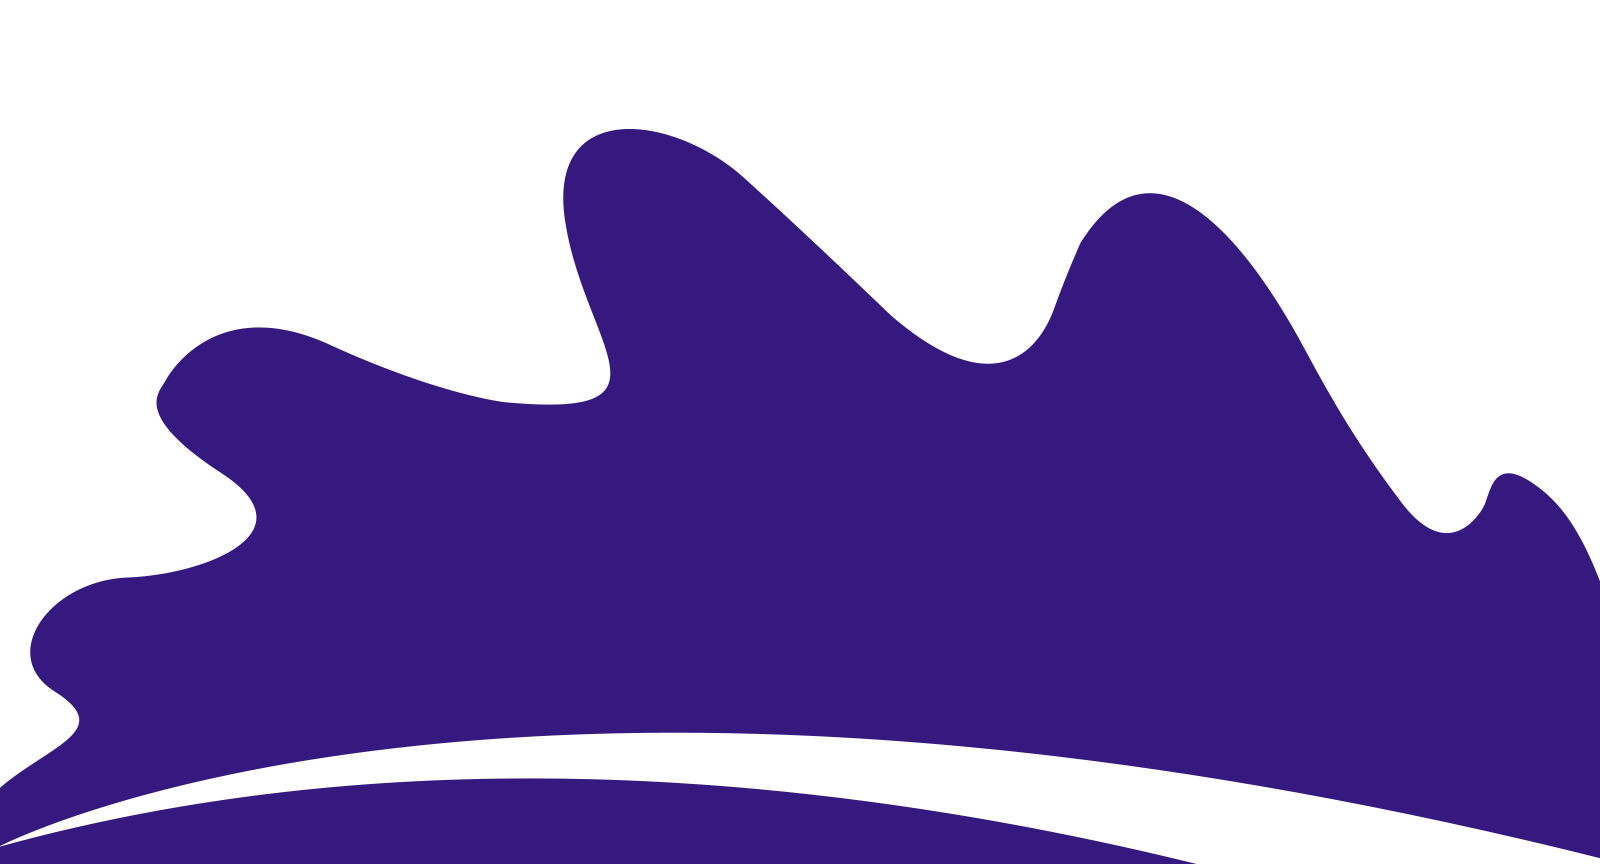
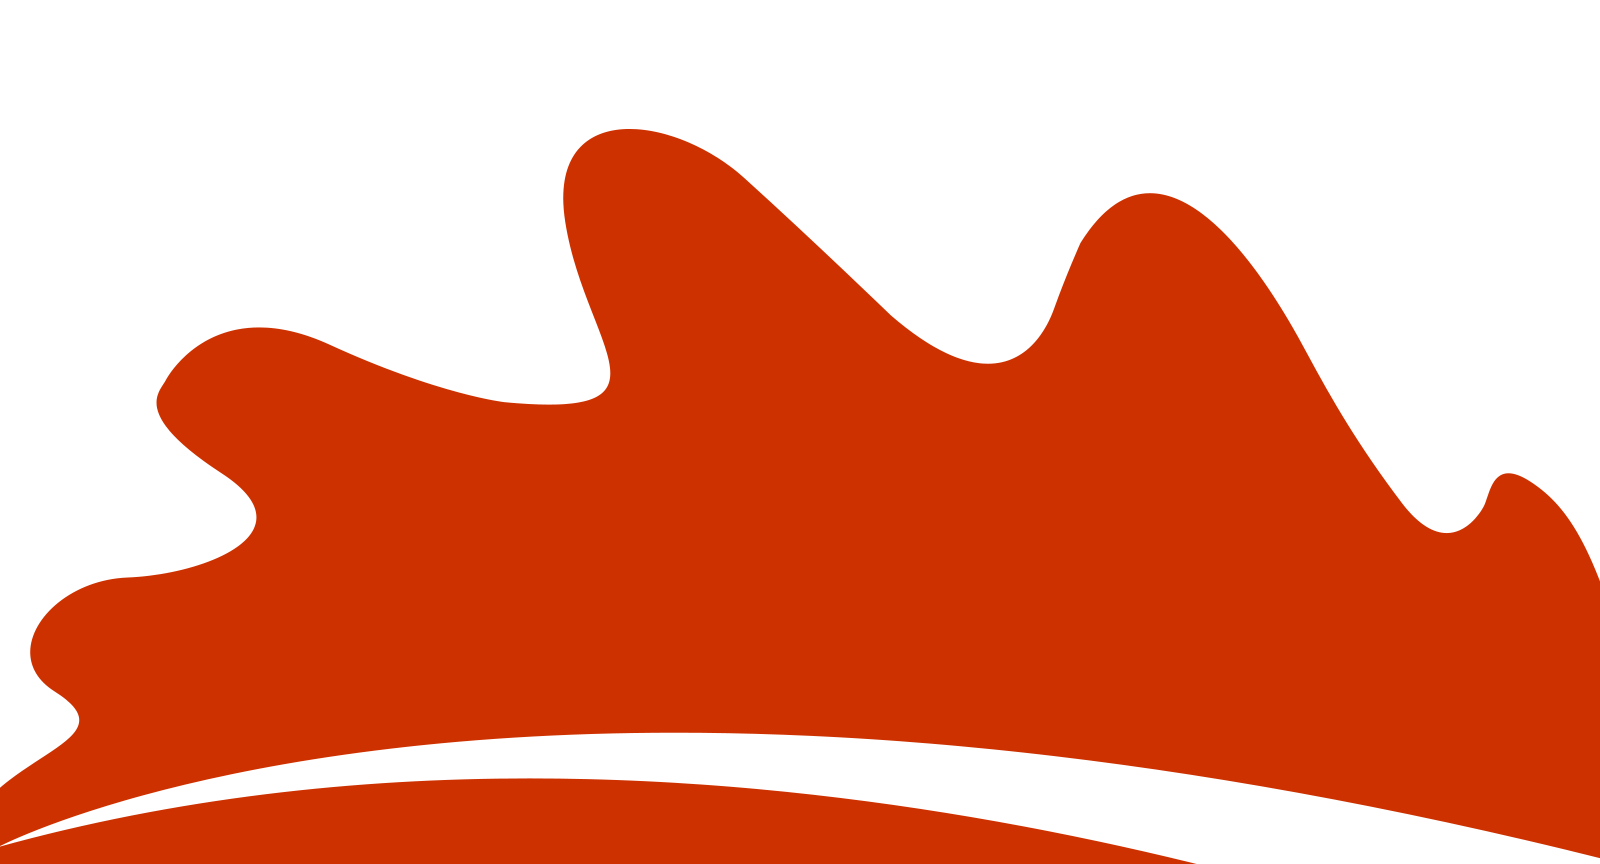
first

diff --git a/theme/index.html b/theme/index.html
@@ -79,7 +79,9 @@
   <div class="container">
     <div class="row">
       <div class="col-lg-11 mx-auto">
-        <h1 class="text-white font-tertiary">Hi! I’m <br> Christoher <br> UX designer</h1>
+        <h1 class="text-white font-tertiary">Empowering Student Organizations <br> One Connection at a Time</h1>
+
+        
       </div>
     </div>
   </div>
@@ -126,68 +128,45 @@
   <div class="container">
     <div class="row">
       <div class="col-lg-10 mx-auto text-center">
-        <p class="font-secondary paragraph-lg text-dark">Lorem ipsum dolor sit amet, consectetur adipisicing elit, sed
-          do eiusmod tempor incididunt ut labore et dolore magna aliqua. Ut enim ad minim veniam, quis nostrud
-          exercitation ullamco laboris nisi ut aliquip ex ea commodo consequat. Duis aute irure dolor in reprehenderit
-          in voluptate velit esse cillum dolore eu fugiat nulla pariatur.</p>
-        <a href="about.html" class="btn btn-transparent">know more</a>
+        <p class="font-secondary paragraph-lg text-dark">We believe in the power of youth and the impact of student organizations. Our mission is to bridge the gap between student groups and sponsors, creating opportunities for growth, innovation, and success. Whether you're a student leader or a sponsor looking to make a difference, we're here to connect you with the right partners.</p>
+        <a href="about.html" class="btn btn-transparent">Our Story</a>
       </div>
     </div>
   </div>
 </section>
 <!-- /about -->
 
-<!-- skills -->
+<!-- Our Network -->
 <section class="section">
   <div class="container">
     <div class="row">
       <div class="col-lg-12 text-center">
-        <h2 class="section-title">Skills</h2>
+        <h2 class="section-title">Our Network</h2>
       </div>
-      <div class="col-lg-3 col-sm-6 mb-4 mb-lg-0">
-        <div class="card shadow text-center">
-          <div class="position-relative rounded-top progress-wrapper" data-color="#fdb157">
-            <div class="wave" data-progress="90%"></div>
-          </div>
-          <div class="card-footer bg-white">
-            <h4 class="card-title">Web Design (90%)</h4>
+      <!-- Student Orgs -->
+      <div class="col-lg-6 col-sm-6 mb-4 mb-lg-0">
+        <div class="card shadow text-center py-5 bg-purple"> <!-- Added bg-purple class -->
+          <div class="card-body">
+            <h2 class="display-2 text-white">80+</h2> <!-- White text -->
+            <h4 class="card-title text-white">Student Organizations</h4> <!-- White text -->
+            <p class="text-white">Join our growing community of student-led groups.</p> <!-- White text -->
           </div>
         </div>
       </div>
-      <div class="col-lg-3 col-sm-6 mb-4 mb-lg-0">
-        <div class="card shadow text-center">
-          <div class="position-relative rounded-top progress-wrapper" data-color="#9473e6">
-            <div class="wave" data-progress="60%"></div>
-          </div>
-          <div class="card-footer bg-white">
-            <h4 class="card-title">Logo Design (60%)</h4>
-          </div>
-        </div>
-      </div>
-      <div class="col-lg-3 col-sm-6 mb-4 mb-lg-0">
-        <div class="card shadow text-center">
-          <div class="position-relative rounded-top progress-wrapper" data-color="#bdecf6">
-            <div class="wave" data-progress="80%"></div>
-          </div>
-          <div class="card-footer bg-white">
-            <h4 class="card-title">After Effects (80%)</h4>
-          </div>
-        </div>
-      </div>
-      <div class="col-lg-3 col-sm-6 mb-4 mb-lg-0">
-        <div class="card shadow text-center">
-          <div class="position-relative rounded-top progress-wrapper" data-color="#ffbcaa">
-            <div class="wave" data-progress="70%"></div>
-          </div>
-          <div class="card-footer bg-white">
-            <h4 class="card-title">Web App (70%)</h4>
+      <!-- Sponsors -->
+      <div class="col-lg-6 col-sm-6 mb-4 mb-lg-0">
+        <div class="card shadow text-center py-5 bg-yellow"> <!-- Added bg-yellow class -->
+          <div class="card-body">
+            <h2 class="display-2 text-white">50+</h2> <!-- White text -->
+            <h4 class="card-title text-white">Sponsors</h4> <!-- White text -->
+            <p class="text-white">Supporting student initiatives and innovation.</p> <!-- White text -->
           </div>
         </div>
       </div>
     </div>
   </div>
 </section>
-<!-- /skills -->
+<!-- /Our Network -->
 
 <!-- experience -->
 <section class="section">
@@ -224,17 +203,24 @@
   <div class="container">
     <div class="row">
       <div class="col-lg-12 text-center">
-        <h2 class="section-title">Education</h2>
+        <h2 class="section-title">How it works</h2>
       </div>
+      <!-- Side-by-Side Headings -->
+      <div class="col-lg-6 col-md-6 text-center mb-4">
+        <h3 class="sub-section-title">For Students</h3> <!-- Reduced size heading -->
+      </div>
+      <div class="col-lg-6 col-md-6 text-center mb-4">
+        <h3 class="sub-section-title">For Sponsors</h3> <!-- Reduced size heading -->
+      </div>
+      <!-- For Students Content -->
       <div class="col-lg-6 col-md-6 mb-80">
         <div class="d-flex">
           <div class="mr-lg-5 mr-3">
             <i class="ti-medall icon icon-light icon-bg bg-white shadow rounded-circle d-block"></i>
           </div>
           <div>
-            <p class="text-dark mb-1">2006</p>
-            <h4>Marters in UX Design</h4>
-            <p class="mb-0 text-light">Masassusets Institute of Technology</p>
+            <h4>Register Your Organization</h4>
+            <p class="mb-0 text-light">Showcase Your Vision</p>
           </div>
         </div>
       </div>
@@ -244,9 +230,20 @@
             <i class="ti-medall icon icon-light icon-bg bg-white shadow rounded-circle d-block"></i>
           </div>
           <div>
-            <p class="text-dark mb-1">2004</p>
-            <h4>Honours in Fine Arts</h4>
-            <p class="mb-0 text-light">Harvard University</p>
+            <h4>Bring Your Ideas to Life</h4>
+            <p class="mb-0 text-light">Connect with Sponsors</p>
+          </div>
+        </div>
+      </div>
+      <!-- For Sponsors Content -->
+      <div class="col-lg-6 col-md-6 mb-80">
+        <div class="d-flex">
+          <div class="mr-lg-5 mr-3">
+            <i class="ti-medall icon icon-light icon-bg bg-white shadow rounded-circle d-block"></i>
+          </div>
+          <div>
+            <h4>Discover Student Groups</h4>
+            <p class="mb-0 text-light">Support Their Mission</p>
           </div>
         </div>
       </div>
@@ -256,21 +253,8 @@
             <i class="ti-medall icon icon-light icon-bg bg-white shadow rounded-circle d-block"></i>
           </div>
           <div>
-            <p class="text-dark mb-1">2000</p>
-            <h4>Higher Secondary Certificat</h4>
-            <p class="mb-0 text-light">Cardiff School</p>
-          </div>
-        </div>
-      </div>
-      <div class="col-lg-6 col-md-6 mb-80">
-        <div class="d-flex">
-          <div class="mr-lg-5 mr-3">
-            <i class="ti-medall icon icon-light icon-bg bg-white shadow rounded-circle d-block"></i>
-          </div>
-          <div>
-            <p class="text-dark mb-1">1998</p>
-            <h4>Secondary School Certificate</h4>
-            <p class="mb-0 text-light">Cardiff School</p>
+            <h4>Make a Lasting Impact</h4>
+            <p class="mb-0 text-light"></p>
           </div>
         </div>
       </div>

diff --git a/theme/css/style.css b/theme/css/style.css
@@ -96,42 +96,42 @@ h6, .h6 {
 }
 
 .btn-primary {
-  background: #41228e;
-  color: #fff;
+  background: #8e2222;
+  color: #FDF0D5;
 }
 .btn-primary:active {
-  background: #542cb7 !important;
+  background: #b72c2c !important;
 }
 .btn-primary:hover {
-  background: #542cb7;
+  background: #b72c2c;
 }
 .btn-primary.focus, .btn-primary.active {
-  background: #542cb7 !important;
+  background: #b72c2c !important;
   box-shadow: none !important;
 }
 
 .btn-transparent {
   background: transparent;
-  color: #41228e;
+  color: #8e2222;
   font-weight: bold;
 }
 .btn-transparent:active, .btn-transparent:hover {
-  color: #41228e;
+  color: #8e2222;
 }
 
 body {
-  background-color: #fff;
+  background-color: #FDF0D5;
   overflow-x: hidden;
 }
 
 ::-moz-selection {
-  background: #542cb7;
-  color: #fff;
+  background: #b72c2c;
+  color: #FDF0D5;
 }
 
 ::selection {
-  background: #542cb7;
-  color: #fff;
+  background: #b72c2c;
+  color: #FDF0D5;
 }
 
 /* preloader */
@@ -141,7 +141,7 @@ body {
   left: 0;
   right: 0;
   bottom: 0;
-  background-color: #fff;
+  background-color: #FDF0D5;
   z-index: 999;
   display: flex;
   align-items: center;
@@ -178,11 +178,11 @@ select:focus {
 }
 
 a.text-dark:hover {
-  color: #41228e !important;
+  color: #8e2222 !important;
 }
 
 a:hover {
-  color: #41228e;
+  color: #8e2222;
 }
 
 .slick-slide {
@@ -228,7 +228,7 @@ a:hover {
 }
 
 .bg-primary {
-  background: #41228e !important;
+  background: #8e2222 !important;
 }
 
 .bg-gray {
@@ -236,7 +236,7 @@ a:hover {
 }
 
 .text-primary {
-  color: #41228e !important;
+  color: #8e2222 !important;
 }
 
 .text-color {
@@ -346,7 +346,7 @@ a:hover {
   margin: 2px;
 }
 .slick-dots li.slick-active button {
-  background: #fff;
+  background: #FDF0D5;
   width: 25px;
 }
 .slick-dots li button {
@@ -369,7 +369,7 @@ a:hover {
   height: 60px;
 }
 .form-control:focus {
-  border-color: #41228e;
+  border-color: #8e2222;
   outline: 0;
   box-shadow: none !important;
 }
@@ -396,7 +396,7 @@ textarea.form-control {
   transition: 0.3s ease;
 }
 .navigation.nav-bg {
-  background-color: #41228e;
+  background-color: #8e2222;
   padding: 15px 100px;
 }
 @media (max-width: 991px) {
@@ -407,7 +407,7 @@ textarea.form-control {
 @media (max-width: 991px) {
   .navigation {
     padding: 20px;
-    background: #41228e;
+    background: #8e2222;
   }
 }
 
@@ -421,7 +421,7 @@ textarea.form-control {
 }
 
 .navbar-dark .navbar-nav .nav-link {
-  color: #fff;
+  color: #FDF0D5;
 }
 
 .hero-area {
@@ -561,18 +561,18 @@ textarea.form-control {
   transition: 0.3s ease;
 }
 .hover-bg-primary:hover {
-  background: #41228e;
+  background: #8e2222;
 }
 .hover-bg-primary:hover * {
-  color: #fff;
+  color: #FDF0D5;
 }
 
 .active-bg-primary {
   transition: 0.3s ease;
-  background: #41228e;
+  background: #8e2222;
 }
 .active-bg-primary * {
-  color: #fff;
+  color: #FDF0D5;
 }
 
 .hover-shadow {
@@ -703,7 +703,7 @@ blockquote {
   display: inline-block;
   padding: 20px 25px;
   background: #eaeaea;
-  border-left: 3px solid #41228e;
+  border-left: 3px solid #8e2222;
   font-style: italic;
   font-size: 22px;
   line-height: 1.7;
@@ -831,4 +831,35 @@ blockquote {
 .filter-controls li.active {
   font-weight: bold;
 }
+
+/* Custom background colors */
+.bg-purple {
+  background-color: #9473e6; /* Purple color */
+}
+
+.bg-yellow {
+  background-color: #fdb157; /* Yellow color */
+}
+
+/* White text */
+.text-white {
+  color: white;
+}
+
+/* Card styling */
+.card {
+  border: none;
+  transition: transform 0.3s ease;
+}
+
+.card:hover {
+  transform: translateY(-10px); /* Add a hover effect */
+}
+
+/* Large number styling */
+.display-2 {
+  font-weight: 700; /* Bold font */
+  margin-bottom: 0.5rem; /* Spacing below the number */
+}
+
 /*# sourceMappingURL=style.css.map */

diff --git a/theme/portfolio.html b/theme/portfolio.html
@@ -59,9 +59,7 @@
         <li class="nav-item">
           <a class="nav-link" href="blog.html">Blog</a>
         </li>
-        <li class="nav-item">
-          <a class="nav-link" href="portfolio.html">Portfolio</a>
-        </li>
+       
         <li class="nav-item">
           <a class="nav-link" href="contact.html">Contact</a>
         </li>
